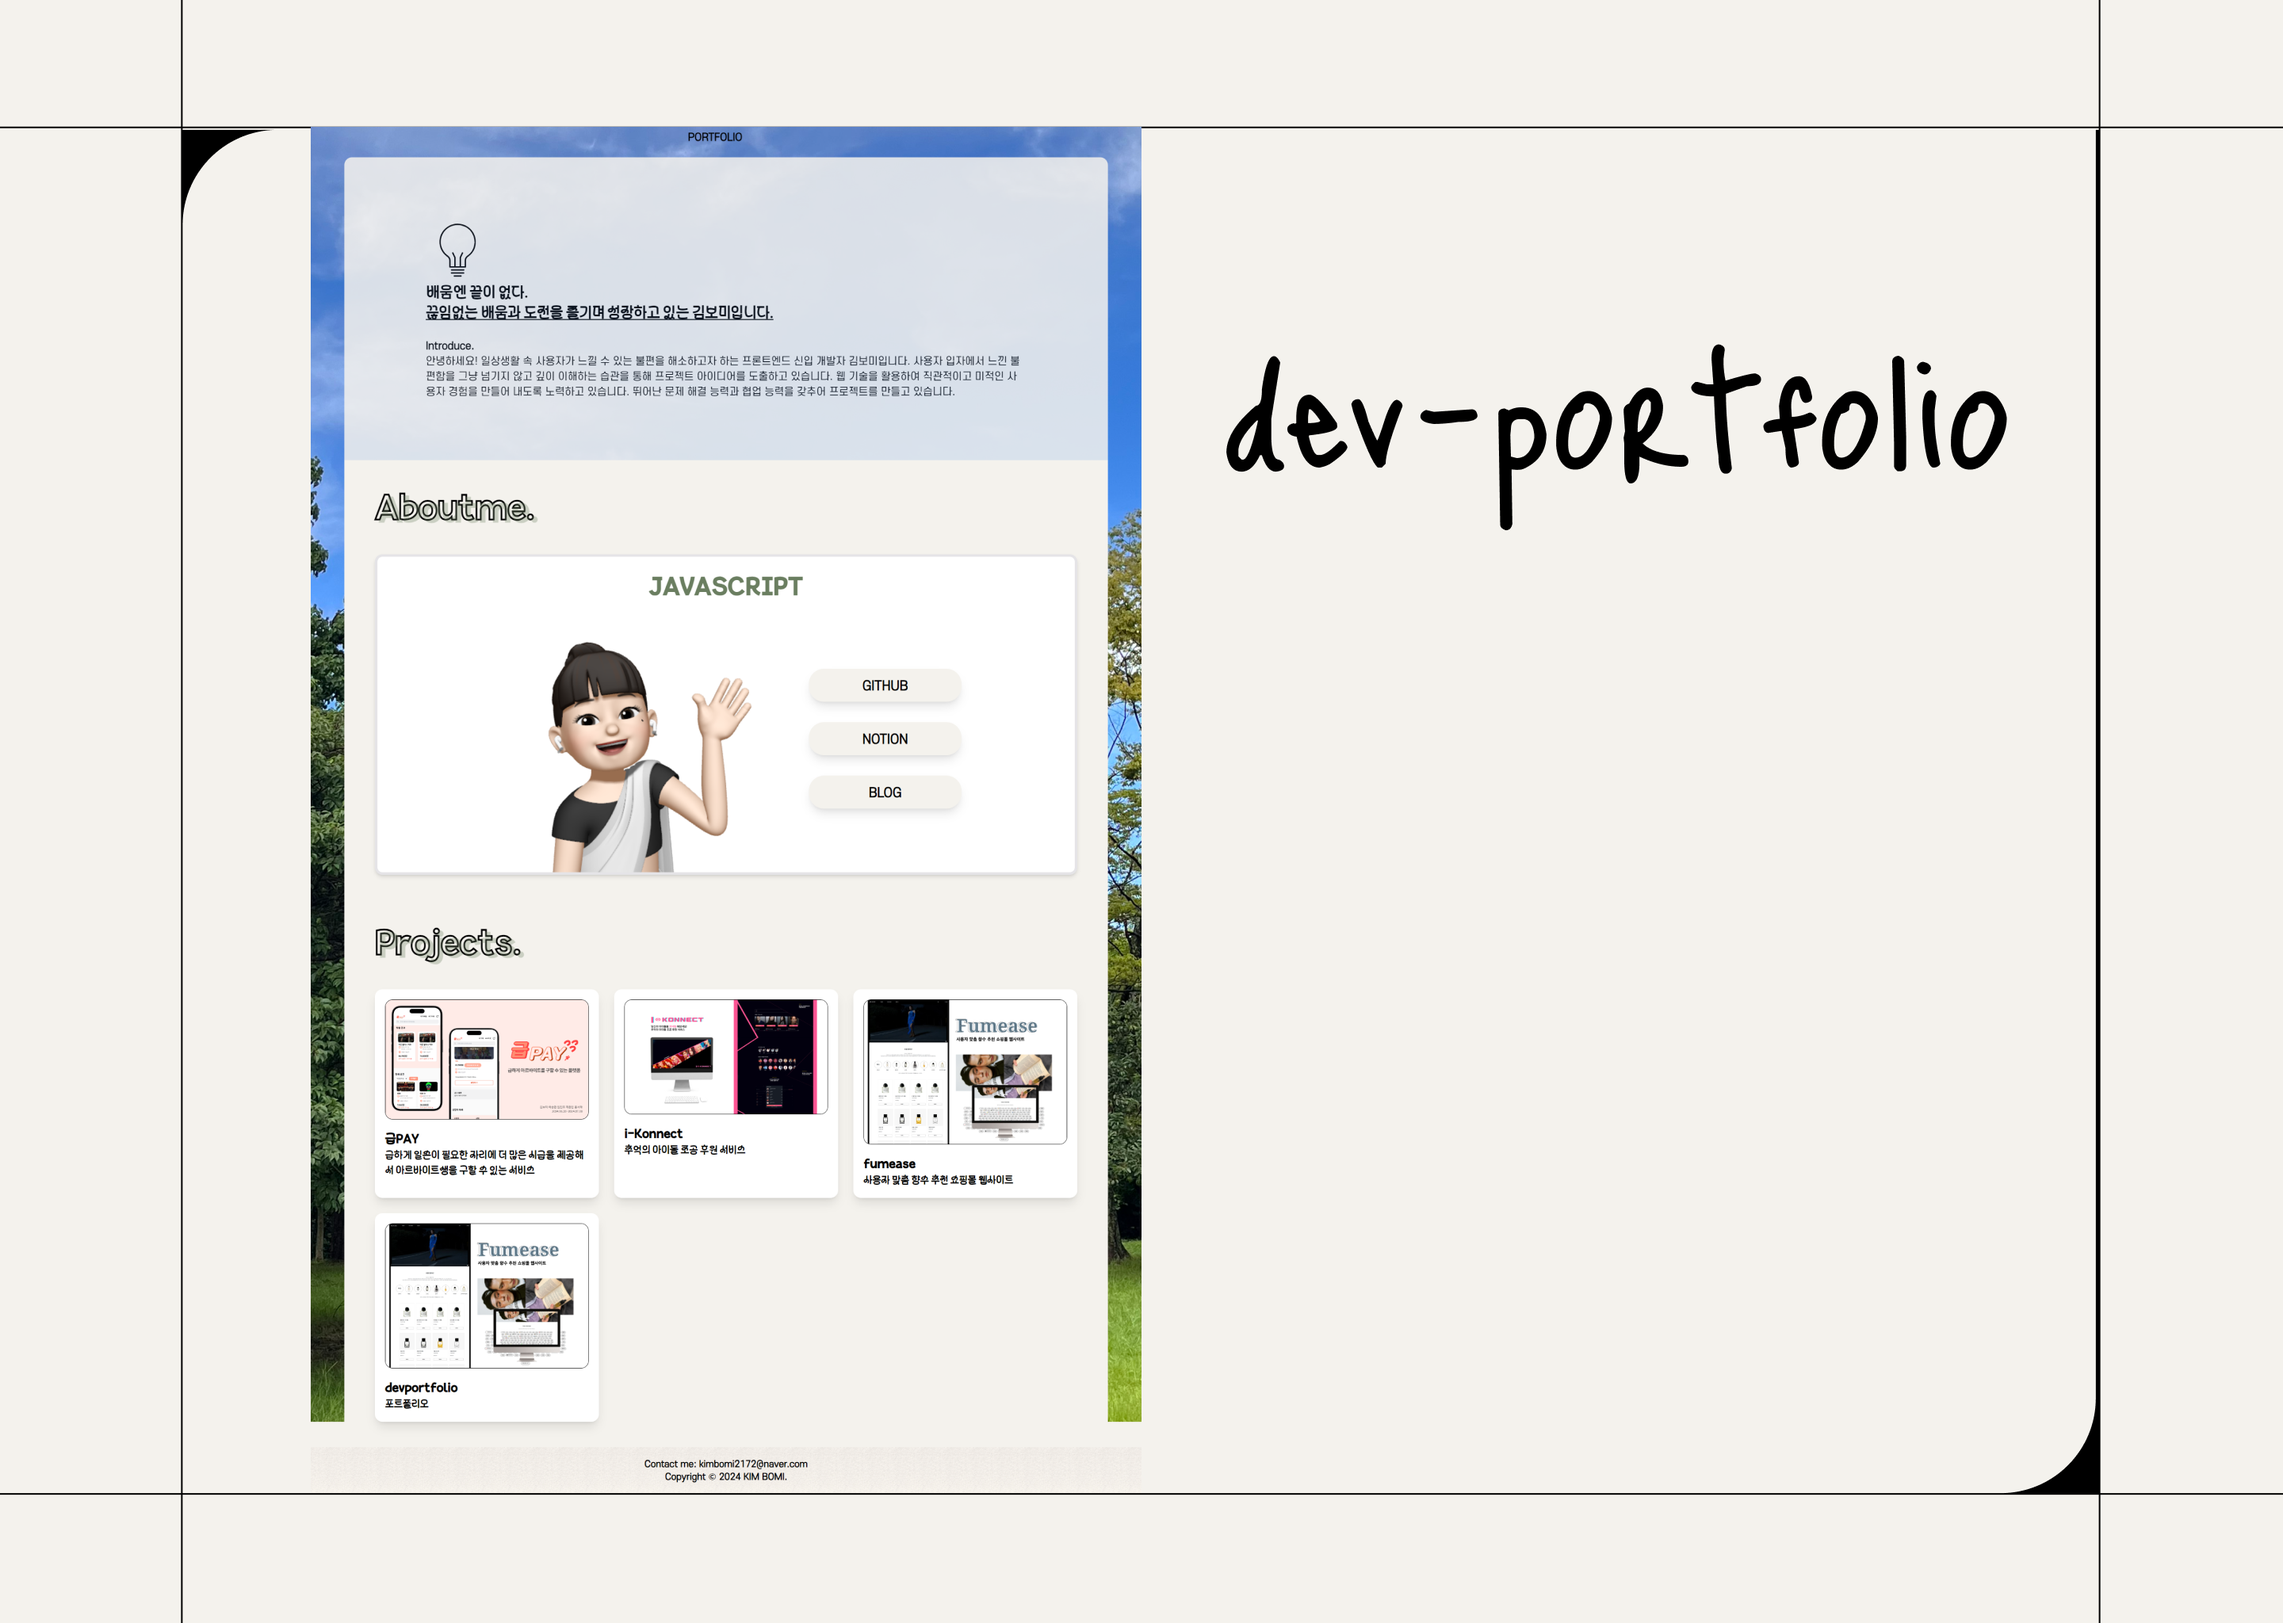
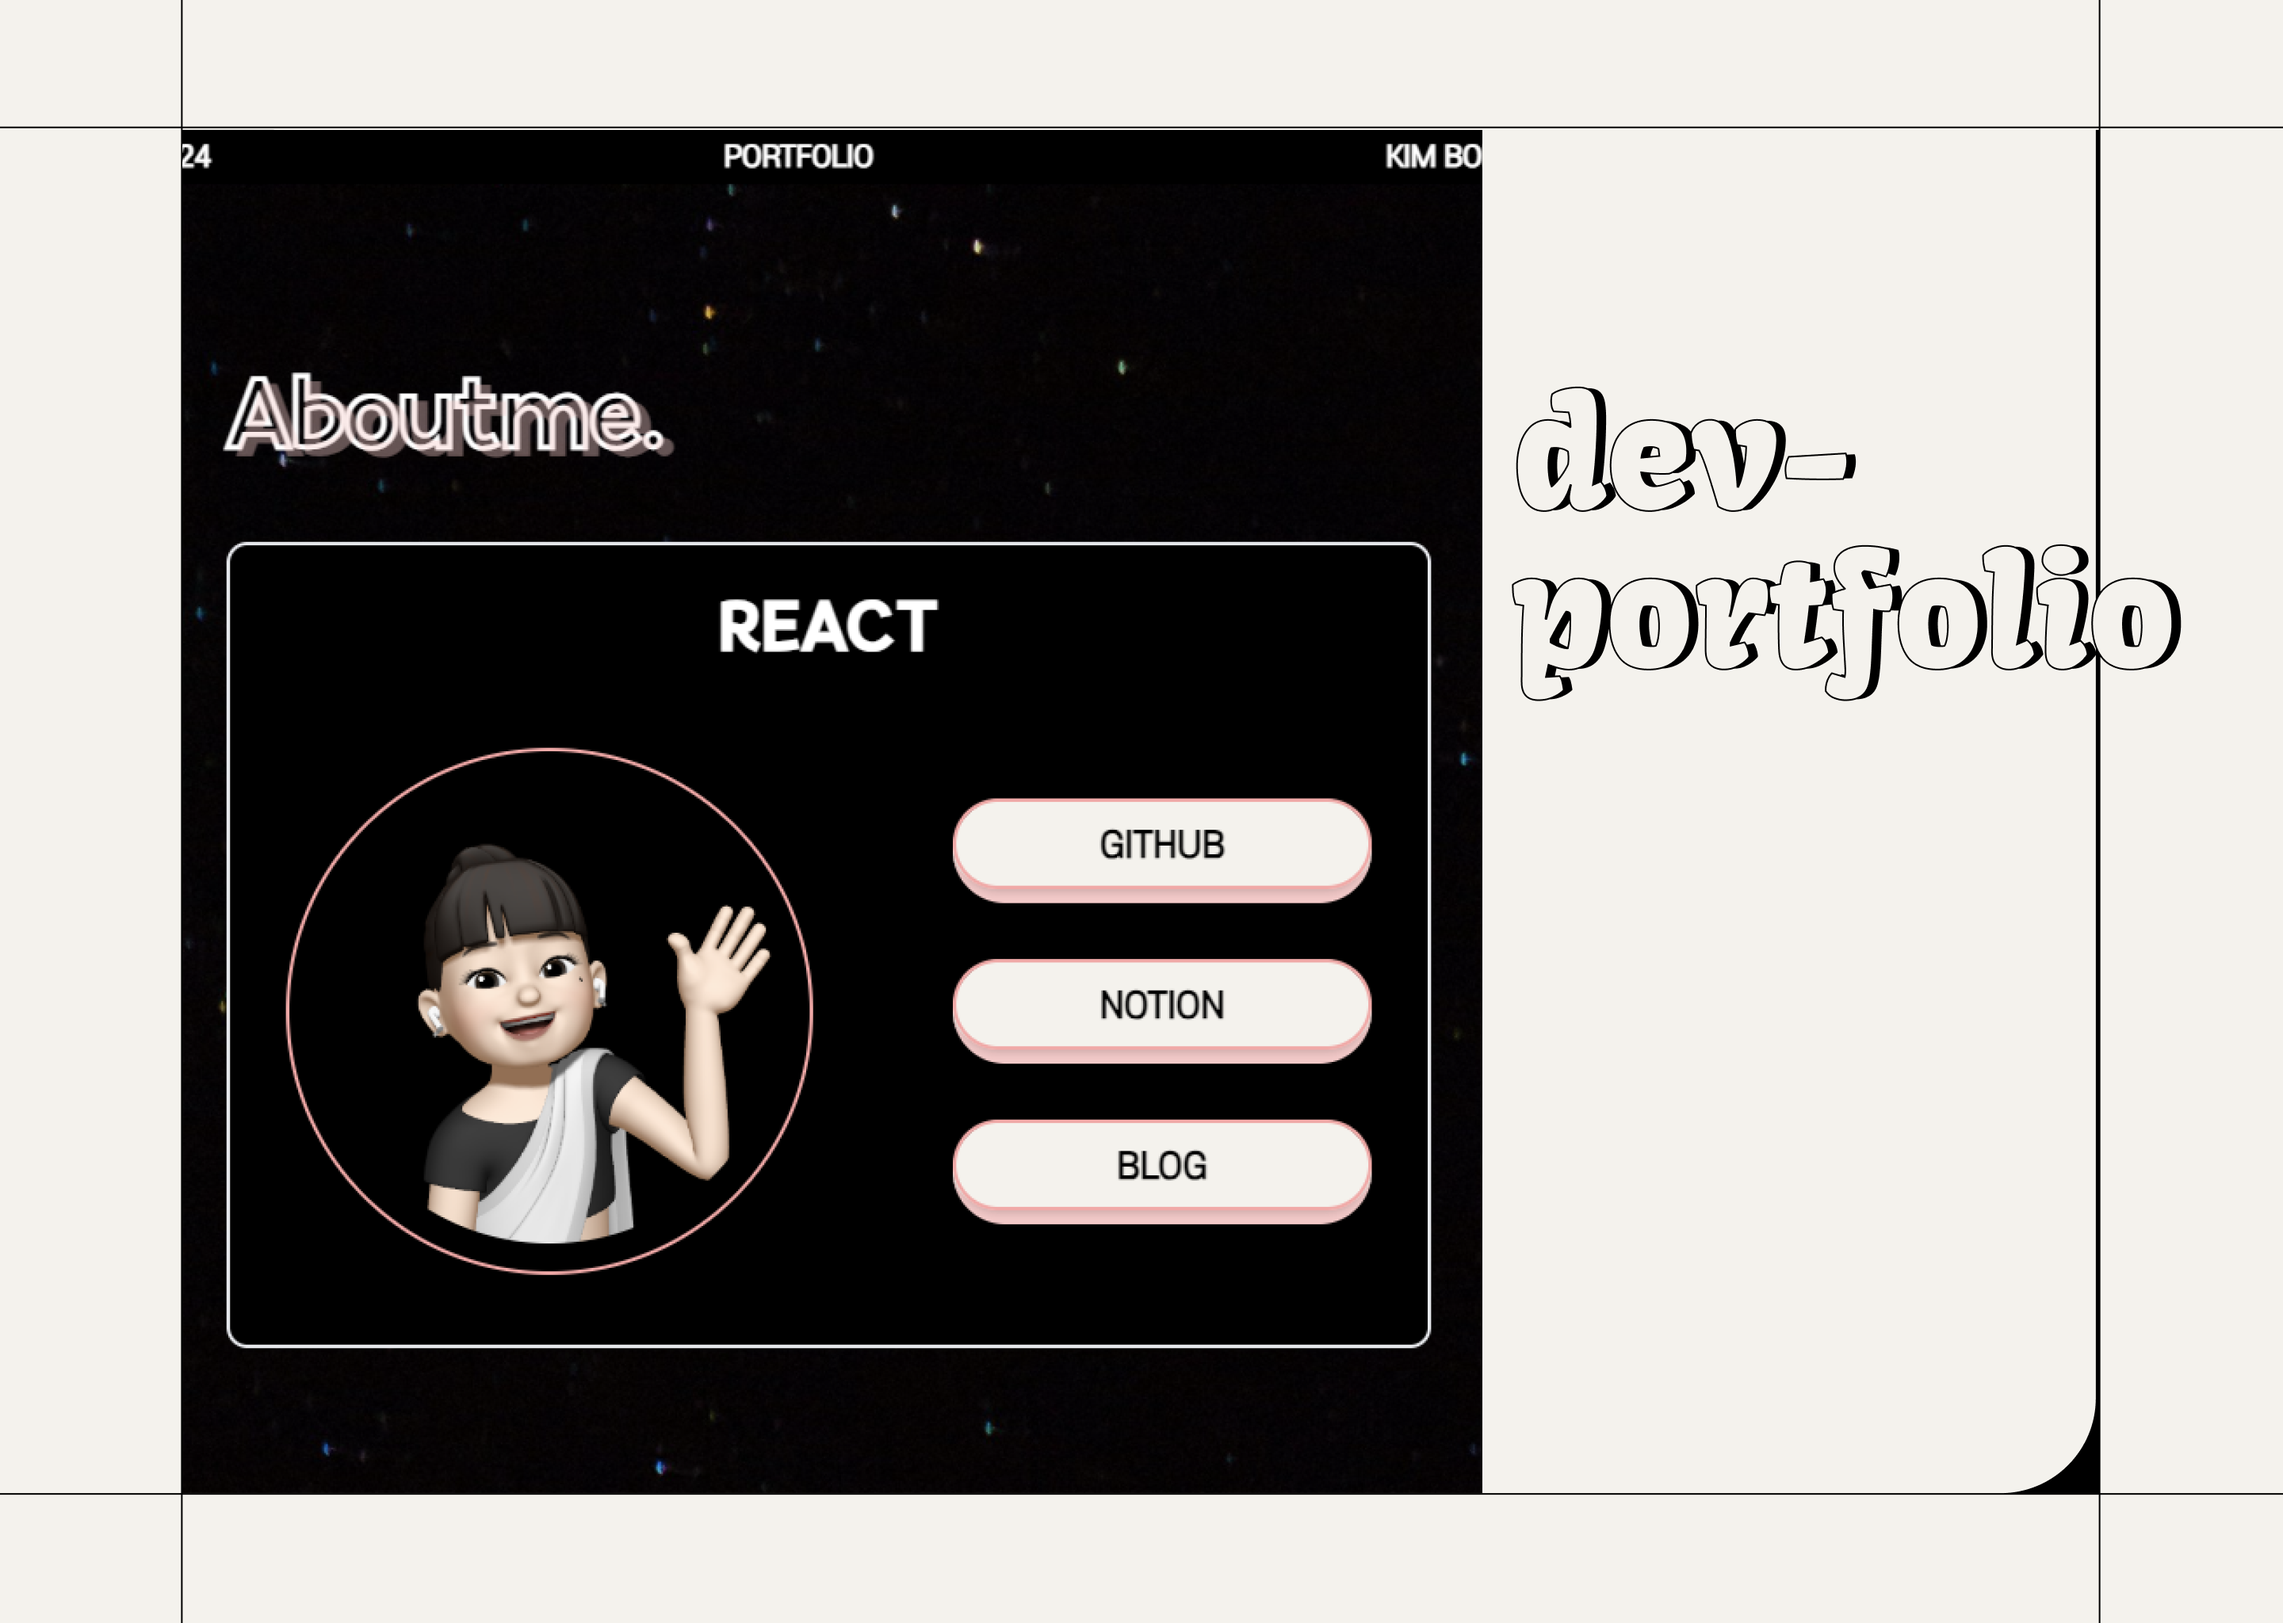
✨ feat: 버튼 추가 및 스택 그라데이션 적용

diff --git a/src/constants/PROJECTS_DATA.ts b/src/constants/PROJECTS_DATA.ts
@@ -2,6 +2,7 @@ import gheupPayImg from '../assets/imgs/projects/gheupPay.png'
 import iKonnectImg from '../assets/imgs/projects/iKonnect.png'
 import fumeaseImg from '../assets/imgs/projects/fumease.png'
 import devportfolioImg from '../assets/imgs/projects/devportfolio.png'
+import tripZipImg from '../assets/imgs/projects/trip.zip.png'
 import gheupPayFile from '../assets/files/gheupPay.pdf'
 import iKonnectFile from '../assets/files/iKonnect.pdf'
 import fumease2 from '../assets/files/fumease2.pdf'
@@ -12,7 +13,7 @@ export const PROJECTS_DATA = [
     name: '급PAY',
     description:
       '급하게 일손이 필요한 자리에 더 많은 시급을 제공해서 아르바이트생을 구할 수 있는 서비스',
-    period: '2024.06.20 ~ 2024.07.07',
+    period: '2024.06.20 ~ 2024.07.07 | 팀 프로젝트(5명)',
     function: `<strong>사장님</strong>
 1⃣ 공고등록: 내 가게를 등록하고, 여러 개의 공고를 등록해보세요.
 2⃣ 즉시채용: 일손이 급한 시기 더 높은 시급으로 빠르게 알바생을 모집하세요.
@@ -82,7 +83,7 @@ export const PROJECTS_DATA = [
     id: 2,
     name: 'i-Konnect',
     description: '추억의 아이돌 조공 후원 서비스',
-    period: '2024.04.27 ~ 2024.05.08',
+    period: '2024.04.27 ~ 2024.05.08 | 팀 프로젝트(5명)',
     function: `
     1⃣ 크레딧으로 아이돌 후원하기
 2⃣ 크레딧 충전하기
@@ -95,10 +96,21 @@ export const PROJECTS_DATA = [
     - yarn
     - tailwind
     - axios
-    - eslint, prettier husky
+    - eslint, prettier, husky
     - netlify
     - 제공된 API`,
-    contribution: ``,
+    contribution: `
+    ✅ 버튼 공통 컴포넌트
+
+    ✅ 조공 카드 컴포넌트 구현
+    - 진행 바로 표현한 남은 후원금 띄우기
+    - 마감일을 기준으로 남은 기한 띄우기
+
+    ✅ 조공 등록 폼 구현
+    - state로 폼 입력값 유효성을 통한 POST 요청
+    
+    ✅ 아이돌 검색 기능
+    `,
     github: 'https://github.com/BestSprinters/i-Konnect',
     notion:
       'https://saber-lip-4c8.notion.site/15-i-Konnect-5afb70e2636e48c1a83f2c9790dacb6c?pvs=4',
@@ -110,7 +122,7 @@ export const PROJECTS_DATA = [
     id: 3,
     name: 'fumease',
     description: '사용자 맞춤 향수 추천 쇼핑몰 웹사이트',
-    period: '2024.06.20 ~ 2024.07.07',
+    period: '2024.06.20 ~ 2024.07.07 | 팀 프로젝트(3명)',
     function: `
         1⃣ 키워드 색을 선택해서 본인 취향에 맞는 향수를 추천해주는 AI
 2⃣ 추천된 향수가 나오면 구매할 수 있는 향수 쇼핑 기능
@@ -156,7 +168,7 @@ export const PROJECTS_DATA = [
     id: 4,
     name: 'devportfolio',
     description: '포트폴리오',
-    period: '2024.06.20 ~ 2024.07.07',
+    period: '2024.06.20 ~ 2024.07.07 | 개인 프로젝트',
     stack: `
      - React + Vite
     - yarn
@@ -187,7 +199,7 @@ export const PROJECTS_DATA = [
     id: 5,
     name: 'trip.zip',
     description: '체험 상품을 보고 간단하게 예약할 수 있는 서비스',
-    period: '2024.07.25 ~ 2024.09.02',
+    period: '2024.07.25 ~ 2024.09.02 | 팀 프로젝트(5명)',
     function: `
        1⃣ (소셜) 로그인/회원가입
 2⃣ 검색과 카테고리를 통한 체험 필터링
@@ -228,7 +240,7 @@ export const PROJECTS_DATA = [
     notion:
       'https://magical-almanac-100.notion.site/8-6da9512d695c44b2a6dd1164441c033a?pvs=4',
     deploy: 'https://trip-zip.vercel.app/',
-    thumnail: gheupPayImg,
-    pdfFile: gheupPayFile,
+    thumnail: tripZipImg,
+    pdfFile: '',
   },
 ]

diff --git a/src/components/projects/Card.tsx b/src/components/projects/Card.tsx
@@ -2,15 +2,23 @@ import { motion } from 'framer-motion'
 import AOS from 'aos'
 import 'aos/dist/aos.css'
 import { useEffect } from 'react'
+import ProjectStackTags from './ProjectStackTags'
 
 type CardProps = {
   src: string
   title: string
   description: string
+  stack: string
   onClick(): void
 }
 
-export default function Card({ src, title, description, onClick }: CardProps) {
+export default function Card({
+  src,
+  title,
+  description,
+  stack,
+  onClick,
+}: CardProps) {
   useEffect(() => {
     AOS.init({ duration: 800 })
   }, [])
@@ -28,11 +36,15 @@ export default function Card({ src, title, description, onClick }: CardProps) {
           alt=""
           className="w-30 h-full rounded-xl border border-black md:w-2/4"
         />
-        <div className="flex flex-col pt-4 md:gap-3">
-          <h3 className="font-title text-xl font-bold md:text-2xl">{title}</h3>
-          <p className="font-title">{description}</p>
+        <div className="flex flex-col justify-between pt-4 md:flex-grow md:gap-3">
+          <div>
+            <h3 className="mb-4 font-title text-2xl font-bold md:text-3xl">
+              {title}
+            </h3>
+            <p className="font-title">{description}</p>
+          </div>
+          <ProjectStackTags stack={stack} />
         </div>
-        <div></div>
       </motion.div>
     </div>
   )

diff --git a/src/components/commons/BackButton.tsx b/src/components/commons/BackButton.tsx
@@ -1,0 +1,26 @@
+import { motion } from 'framer-motion'
+import back from '../../assets/icons/back.svg'
+import { useNavigate } from 'react-router-dom'
+
+export default function BackButton() {
+  const navigate = useNavigate()
+
+  const goToBack = () => {
+    navigate(-1)
+  }
+
+  return (
+    <div className="mt-10 flex items-center justify-center">
+      <motion.div
+        className="relative flex w-60 cursor-pointer items-center justify-center gap-2 rounded-full border-b-8 border-red-200 bg-primary py-2 text-center font-bold text-black shadow-lg md:py-3 md:text-xl"
+        whileHover={{ scale: 1.05 }}
+        whileTap={{ scale: 0.95 }}
+        onClick={goToBack}
+      >
+        GO TO BACK
+        <img src={back} alt="돌아가기" className="size-6" />
+        <span className="absolute inset-0 rounded-full border-2 border-red-300 shadow-md"></span>
+      </motion.div>
+    </div>
+  )
+}

diff --git a/src/components/projects/ProjectStackTags.tsx b/src/components/projects/ProjectStackTags.tsx
@@ -1,0 +1,28 @@
+import { getRandomGradient } from '../../utils/getRandomGradient'
+
+type ProjectStackTagsProps = {
+  stack: string
+}
+
+export default function ProjectStackTags({ stack }: ProjectStackTagsProps) {
+  // '-' 문자로 문자열을 분리 + 공백 제거
+  const items = stack
+    .split('-')
+    .map((item) => item.trim())
+    .filter((item) => item)
+  return (
+    <div className="mt-10 flex flex-wrap gap-1">
+      {items.map((item, index) => (
+        <div
+          key={index}
+          className="flex w-fit items-center justify-center rounded-full bg-primary px-2 text-xs text-white"
+          style={{
+            background: getRandomGradient(),
+          }}
+        >
+          {item}
+        </div>
+      ))}
+    </div>
+  )
+}

diff --git a/src/components/Introduce.tsx b/src/components/Introduce.tsx
@@ -37,7 +37,7 @@ export default function Introduce() {
       textColor: 'text-amber-700',
     },
     {
-      name: 'AI를 활용한 향수 쇼핑 웹사이트',
+      name: ' AI를 활용한 향수 쇼핑 웹사이트',
       pdfUrl: 'src/assets/files/fumease.pdf',
       textColor: 'text-black',
     },
@@ -119,7 +119,7 @@ export default function Introduce() {
               >
                 스터디 활동
               </Link>
-              에 적극 참여하고 있으며, 블로그를 운영하여{' '}
+              에 적극 참여했고, 블로그를 운영하여{' '}
               <Link
                 to="https://bori-note.tistory.com"
                 target="_blank"

diff --git a/src/pages/ProjectDetailPage.tsx b/src/pages/ProjectDetailPage.tsx
@@ -7,6 +7,7 @@ import { PROJECTS_DATA } from '../constants/PROJECTS_DATA'
 
 import ProjectDetailCard from '../components/projects/ProjectDetailCard'
 import { convertToHtml } from '../utils/convertToHtml'
+import BackButton from '../components/commons/BackButton'
 
 export default function ProjectDetailPage() {
   const { id } = useParams()
@@ -66,6 +67,7 @@ export default function ProjectDetailPage() {
               <p dangerouslySetInnerHTML={{ __html: projectContribution }}></p>
             </div>
           </div>
+          <BackButton />
         </div>
 
         <div className="fixed bottom-4 right-4 float-end flex">

diff --git a/src/utils/getRandomGradient.ts b/src/utils/getRandomGradient.ts
@@ -1,0 +1,16 @@
+// 랜덤 색상 생성 함수
+const getRandomColor = () => {
+  const letters = '0123456789ABCDEF'
+  let color = '#'
+  for (let i = 0; i < 6; i++) {
+    color += letters[Math.floor(Math.random() * 16)]
+  }
+  return color
+}
+
+// 두 개의 랜덤 색상으로 그라데이션 생성
+export const getRandomGradient = () => {
+  const color1 = getRandomColor()
+  const color2 = getRandomColor()
+  return `linear-gradient(45deg, ${color1}, ${color2})`
+}

diff --git a/src/pages/HomePage.tsx b/src/pages/HomePage.tsx
@@ -80,6 +80,7 @@ export default function HomePage() {
                   src={project.thumnail}
                   title={project.name}
                   description={project.description}
+                  stack={project.stack}
                   onClick={() => handleCardClick(project.id)}
                 />
               ))}
